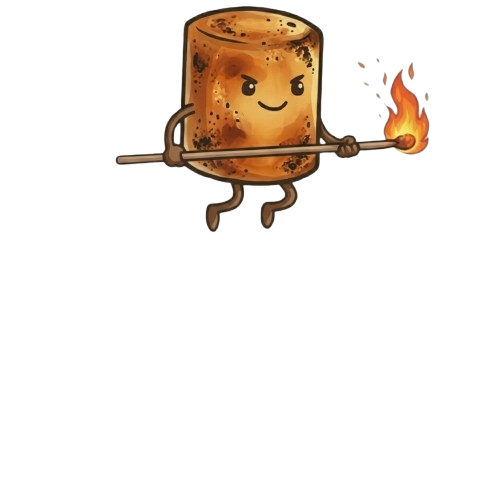
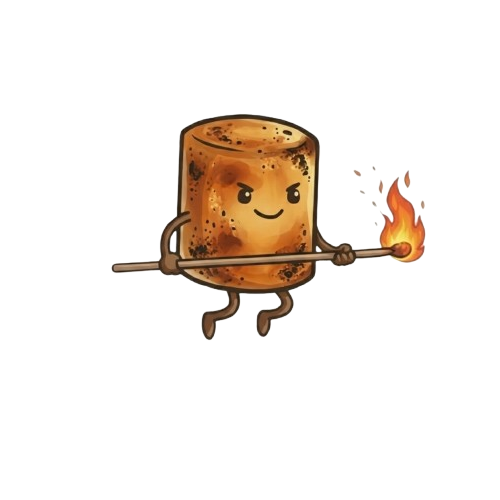
So, I did some things

Changed region(s): [[0.21, 0.0, 0.87, 0.69], [0.72, 0.12, 0.75, 0.15]]

diff --git a/TEST_FLIPIMAGE.m b/TEST_FLIPIMAGE.m
@@ -44,7 +44,9 @@ flush(arduinoObj2);
           Roasted_Run,alpha_Roasted_Run, Roasted_Runflip,alpha_Roasted_Runflip,p2_left,dhb_right,p2_dhb_left, ...
           Roasted_Jump, alpha_Roasted_Jump, Roasted_Jumpflip,alpha_Roasted_Jumpflip, Roasted_Crouch,alpha_Roasted_Crouch,...
           Roasted_Crouchflip,alpha_Roasted_Crouchflip, Roasted_Jab,alpha_Roasted_Jab, Roasted_Jabflip,alpha_Roasted_Jabflip,...
-          Roasted_Upwards_Jab,alpha_Roasted_Upwards_Jab, Roasted_Upwards_Jabflip,alpha_Roasted_Upwards_Jabflip] = figure_setup();
+          Roasted_Upwards_Jab,alpha_Roasted_Upwards_Jab, Roasted_Upwards_Jabflip,alpha_Roasted_Upwards_Jabflip, ...
+          Unroasted_Dash,alpha_upward_Unroasted_Dash, Unroasted_Dashflip,alpha_Unroasted_Dashflip, ...
+          Roasted_Dash,alpha_Roasted_Dash, Roasted_Dashflip,alpha_Roasted_Dashflip] = figure_setup();
 
 xl = bgWidth*100;    % absolute x scaling
 yl = bgHeight*100;   % absolute y scaling
@@ -79,6 +81,7 @@ DHB2 = image(Black_HB, 'XData',[bgWidth-0.48 bgWidth-0.03], 'YData',[0.97-0.06 0
 burntrun = image(Roasted_Run,'XData',[screenx-scale screenx+scale], 'YData',[screeny-scale+0.1 screeny+scale+0.1], 'AlphaData',alpha_Roasted_Run);
 run = image(m_run,'XData',[screenx-scale screenx+scale], 'YData',[screeny-scale+0.1 screeny+scale+0.1], 'AlphaData',alpha_run);
 
+burntrun2 = image(Roasted_Runflip,'XData',[screenx+0.5-scale screenx+0.5+scale], 'YData',[screeny-scale+0.1 screeny+scale+0.1], 'AlphaData',alpha_Roasted_Runflip);
 p2run = image(m_runflip,'XData',[screenx+0.5-scale screenx+0.5+scale], 'YData',[screeny-scale+0.1 screeny+scale+0.1], 'AlphaData',alpha_runflip);
 
 %% Initial Values
@@ -91,6 +94,9 @@ burnt = 1;
 burnt2 = 1;
 crouch = 1;
 p1jabbtn = 1;
+
+ux = 0;
+u2x = 0;
 
 %% ---------------- MAIN LOOP ----------------
 while ishandle(run)
@@ -147,30 +153,29 @@ while ishandle(run)
                         
                     uy = 800*(0.15+0.85*p1crouchbtn);
 
-                elseif p1dashbtn == 0
+                elseif p1dashbtn == 0 && p1crouchbtn == 1
 
-                    uy = 400*(raw-512)*(0.15+0.85*p1crouchbtn)/512;
+                    uy = -400*(raw-512)/512;
                     
                 else
                     uy = 0;  % Reset applied force if within deadband
                 end
 
                 % Deadband
-                if abs(rawx - 512) < 20
+                if abs(rawx - 512) < 20 && p2jabbtn == 1
                     ux = 0;
+                    x1start(2) = 0;
 
-                elseif p1dashbtn == 0
+                elseif p1dashbtn == 0 && p1crouchbtn == 1
 
-                    ux = -3000*(rawx-512)*(0.15+0.85*p1crouchbtn)/512;
+                    ux = -3000*(rawx-512)/512;
                     
                 else 
                     ux = -(rawx - 512)*(0.15+0.85*p1crouchbtn);
                     
                 end 
                                 
-                 if ux == 0 
-                    x1start(2) = 0;
-                end
+                 
             
             % player 2 controls
                 if (raw2 - 512) < -300
@@ -182,30 +187,29 @@ while ishandle(run)
                 if p2jumpbtn == 0
                     u2y = 800*(0.15+0.85*p2crouchbtn);
                 
-                elseif p2dashbtn == 0
-                    u2y = 400*(raw2-512)*(0.15+0.85*p2crouchbtn)/512;
+                elseif p2dashbtn == 0 && p2crouchbtn == 1
+                    u2y = -400*(raw2-512)/512;
                 
                 else
                     u2y = 0;
                 end
                 
-                if abs(rawx2 - 512) < 10
+                if abs(rawx2 - 512) < 20 && p1jabbtn == 1
                     u2x = 0;
+                    xp2(2) = 0;
                 
-                elseif p2dashbtn == 0
-                    u2x = -3000*(rawx2-512)*(0.15+0.85*p2crouchbtn)/512;
+                elseif p2dashbtn == 0 && p2crouchbtn == 1
+                    u2x = -3000*(rawx2-512)/512;
                 
                 else
                     
                     u2x = -(rawx2 - 512)*(0.15+0.85*p2crouchbtn);
                 end
                 
-                if u2x == 0
-                    xp2(2) = 0;
-                end
+                
 
-h1 = 1.0+(100.0-health1)*0.01;
-h2 = 1.0+(100.0-health2)*0.01;
+h1 = 1.0+(100.0-health1)*0.05;
+h2 = 1.0+(100.0-health2)*0.05;
 
 % ----- RK4 Integration -----
 y1start = RK4(y1start, dt, h1, uy,m, rho, Cd, A, g);
@@ -283,48 +287,58 @@ y2start = RK4(y2start, dt, h2, u2y, m, rho, Cd, A, g);
    
     if x1 <= x2
         
-        player1image = changeimage(ux, up, burnt, p1crouchbtn, p1jabbtn, p1jumpbtn, m_runflip,alpha_runflip,m_jumpflip,alpha_jumpflip, m_crouchflip,alpha_crouchflip,...
+        player1image = changeimage(ux, up, burnt, p1crouchbtn, p1jabbtn, p1jumpbtn, p1dashbtn, m_runflip,alpha_runflip,m_jumpflip,alpha_jumpflip, m_crouchflip,alpha_crouchflip,...
           m_jabflip,alpha_jabflip, m_upward_jabflip,alpha_upward_jabflip, m_run, alpha_run, m_jump, alpha_jump, ...
           m_crouch, alpha_crouch, m_jab, alpha_jab, ...
           m_upward_jab, alpha_upward_jab,Roasted_Run,alpha_Roasted_Run, Roasted_Runflip,alpha_Roasted_Runflip, ...
           Roasted_Jump, alpha_Roasted_Jump, Roasted_Jumpflip,alpha_Roasted_Jumpflip, Roasted_Crouch,alpha_Roasted_Crouch,...
           Roasted_Crouchflip,alpha_Roasted_Crouchflip, Roasted_Jab,alpha_Roasted_Jab, Roasted_Jabflip,alpha_Roasted_Jabflip,...
-          Roasted_Upwards_Jab,alpha_Roasted_Upwards_Jab, Roasted_Upwards_Jabflip,alpha_Roasted_Upwards_Jabflip);
+          Roasted_Upwards_Jab,alpha_Roasted_Upwards_Jab, Roasted_Upwards_Jabflip,alpha_Roasted_Upwards_Jabflip, ...
+          Unroasted_Dash,alpha_upward_Unroasted_Dash, Unroasted_Dashflip,alpha_Unroasted_Dashflip, ...
+          Roasted_Dash,alpha_Roasted_Dash, Roasted_Dashflip,alpha_Roasted_Dashflip);
 
         set(burntrun,'CData', player1image{3}, 'AlphaData', player1image{4});
         set(run,'CData', player1image{1}, 'AlphaData', player1image{2});
 
-        player2image = changeimageflip(u2x, up2, burnt2, p2crouchbtn, p2jabbtn, p2jumpbtn, m_runflip,alpha_runflip,m_jumpflip,alpha_jumpflip, m_crouchflip,alpha_crouchflip,...
+        player2image = changeimageflip(u2x, up2, burnt2, p2crouchbtn, p2jabbtn, p2jumpbtn, p2dashbtn, m_runflip,alpha_runflip,m_jumpflip,alpha_jumpflip, m_crouchflip,alpha_crouchflip,...
           m_jabflip,alpha_jabflip, m_upward_jabflip,alpha_upward_jabflip, m_run, alpha_run, m_jump, alpha_jump, ...
           m_crouch, alpha_crouch, m_jab, alpha_jab, ...
           m_upward_jab, alpha_upward_jab,Roasted_Run,alpha_Roasted_Run, Roasted_Runflip,alpha_Roasted_Runflip, ...
           Roasted_Jump, alpha_Roasted_Jump, Roasted_Jumpflip,alpha_Roasted_Jumpflip, Roasted_Crouch,alpha_Roasted_Crouch,...
           Roasted_Crouchflip,alpha_Roasted_Crouchflip, Roasted_Jab,alpha_Roasted_Jab, Roasted_Jabflip,alpha_Roasted_Jabflip,...
-          Roasted_Upwards_Jab,alpha_Roasted_Upwards_Jab, Roasted_Upwards_Jabflip,alpha_Roasted_Upwards_Jabflip);
+          Roasted_Upwards_Jab,alpha_Roasted_Upwards_Jab, Roasted_Upwards_Jabflip,alpha_Roasted_Upwards_Jabflip, ...
+          Unroasted_Dash,alpha_upward_Unroasted_Dash, Unroasted_Dashflip,alpha_Unroasted_Dashflip, ...
+          Roasted_Dash,alpha_Roasted_Dash, Roasted_Dashflip,alpha_Roasted_Dashflip);
 
         set(p2run,'CData', player2image{1}, 'AlphaData', player2image{2});
+        set(burntrun2,'CData', player2image{3}, 'AlphaData', player2image{4});
 
     else
-        player1image = changeimageflip(ux, up, burnt, p1crouchbtn, p1jabbtn, p1jumpbtn, m_runflip,alpha_runflip,m_jumpflip,alpha_jumpflip, m_crouchflip,alpha_crouchflip,...
+        player1image = changeimageflip(ux, up, burnt, p1crouchbtn, p1jabbtn, p1jumpbtn, p1dashbtn, m_runflip,alpha_runflip,m_jumpflip,alpha_jumpflip, m_crouchflip,alpha_crouchflip,...
           m_jabflip,alpha_jabflip, m_upward_jabflip,alpha_upward_jabflip, m_run, alpha_run, m_jump, alpha_jump, ...
           m_crouch, alpha_crouch, m_jab, alpha_jab, ...
           m_upward_jab, alpha_upward_jab,Roasted_Run,alpha_Roasted_Run, Roasted_Runflip,alpha_Roasted_Runflip, ...
           Roasted_Jump, alpha_Roasted_Jump, Roasted_Jumpflip,alpha_Roasted_Jumpflip, Roasted_Crouch,alpha_Roasted_Crouch,...
           Roasted_Crouchflip,alpha_Roasted_Crouchflip, Roasted_Jab,alpha_Roasted_Jab, Roasted_Jabflip,alpha_Roasted_Jabflip,...
-          Roasted_Upwards_Jab,alpha_Roasted_Upwards_Jab, Roasted_Upwards_Jabflip,alpha_Roasted_Upwards_Jabflip);
+          Roasted_Upwards_Jab,alpha_Roasted_Upwards_Jab, Roasted_Upwards_Jabflip,alpha_Roasted_Upwards_Jabflip, ...
+          Unroasted_Dash,alpha_upward_Unroasted_Dash, Unroasted_Dashflip,alpha_Unroasted_Dashflip, ...
+          Roasted_Dash,alpha_Roasted_Dash, Roasted_Dashflip,alpha_Roasted_Dashflip);
 
         set(burntrun,'CData', player1image{3}, 'AlphaData', player1image{4});
         set(run,'CData', player1image{1}, 'AlphaData', player1image{2});
 
-        player2image = changeimage(u2x, up2, burnt2, p2crouchbtn, p2jabbtn, p2jumpbtn, m_runflip,alpha_runflip,m_jumpflip,alpha_jumpflip, m_crouchflip,alpha_crouchflip,...
+        player2image = changeimage(u2x, up2, burnt2, p2crouchbtn, p2jabbtn, p2jumpbtn, p2dashbtn, m_runflip,alpha_runflip,m_jumpflip,alpha_jumpflip, m_crouchflip,alpha_crouchflip,...
           m_jabflip,alpha_jabflip, m_upward_jabflip,alpha_upward_jabflip, m_run, alpha_run, m_jump, alpha_jump, ...
           m_crouch, alpha_crouch, m_jab, alpha_jab, ...
           m_upward_jab, alpha_upward_jab,Roasted_Run,alpha_Roasted_Run,Roasted_Runflip,alpha_Roasted_Runflip, ...
           Roasted_Jump, alpha_Roasted_Jump, Roasted_Jumpflip,alpha_Roasted_Jumpflip, Roasted_Crouch,alpha_Roasted_Crouch,...
           Roasted_Crouchflip,alpha_Roasted_Crouchflip, Roasted_Jab,alpha_Roasted_Jab, Roasted_Jabflip,alpha_Roasted_Jabflip,...
-          Roasted_Upwards_Jab,alpha_Roasted_Upwards_Jab, Roasted_Upwards_Jabflip,alpha_Roasted_Upwards_Jabflip);
+          Roasted_Upwards_Jab,alpha_Roasted_Upwards_Jab, Roasted_Upwards_Jabflip,alpha_Roasted_Upwards_Jabflip, ...
+          Unroasted_Dash,alpha_upward_Unroasted_Dash, Unroasted_Dashflip,alpha_Unroasted_Dashflip, ...
+          Roasted_Dash,alpha_Roasted_Dash, Roasted_Dashflip,alpha_Roasted_Dashflip);
 
         set(p2run,'CData', player2image{1}, 'AlphaData', player2image{2});
+        set(burntrun2,'CData', player2image{3}, 'AlphaData', player2image{4});
 
     end
 
@@ -337,11 +351,11 @@ y2start = RK4(y2start, dt, h2, u2y, m, rho, Cd, A, g);
         hit = jabfunction(x1, y1, x2, y2, up, hitbox);
     
         if hit > 0
-            u2x = (abs(ux)/2)*(ux/(abs(ux)+0.001));
+            u2x = (abs(ux))*(ux/(abs(ux)+0.001));
     
             heart = (0.025 + (sqrt(ux^2 + uy^2))*0.000001);
             health2 = health2 - heart;
-            burnt2 = 0.25 + health2/133.33;
+            burnt2 = 0.1 + health2/111.11;
     
         end
     end
@@ -353,11 +367,11 @@ y2start = RK4(y2start, dt, h2, u2y, m, rho, Cd, A, g);
         hit2 = jabfunction(x2, y2, x1, y1, up2, hitbox);
     
         if hit2 > 0
-            ux = (abs(u2x)/2)*(u2x/(abs(u2x)+0.001));
+            ux = (abs(u2x))*(u2x/(abs(u2x)+0.001));
     
             heart2 = (0.025 + (sqrt(u2x^2 + u2y^2))*0.000001);
             health1 = health1 - heart2;
-            burnt = 0.25 + health1/133.33;
+            burnt = 0.1 + health1/111.11;
     
         end
     end
@@ -371,20 +385,23 @@ y2start = RK4(y2start, dt, h2, u2y, m, rho, Cd, A, g);
     
     %% player 1 damage bar
 
-    set(burntrun,'XData',[x1-scale x1+scale],'YData',[y1-scale+0.1 y1+scale+0.1],'AlphaData',player1image{4});
+    set(burntrun,'XData',[x1-scale x1+scale],'YData',[y1-scale+0.1 y1+scale+0.1]);
     set(run,'XData',[x1-scale x1+scale],'YData',[y1-scale+0.1 y1+scale+0.1]);
 
    
     
     
     set(DHB1, 'XData',[dhb_right - dhb_width1, dhb_right], 'YData',[dhb_top - dhb_height, dhb_top], 'AlphaData', alphadhb);
+
+    
+    set(burntrun2,'XData',[x2-scale x2+scale],'YData',[y2-scale+0.1 y2+scale+0.1]);
     set(p2run,'XData',[x2-scale x2+scale],'YData',[y2-scale+0.1 y2+scale+0.1]); 
     
     % player 1 damage bar
     
 
 
-set(DHB2, 'XData',[p2_dhb_left, p2_dhb_left + dhb_width2], 'YData',[dhb_top - dhb_height, dhb_top]);
+    set(DHB2, 'XData',[p2_dhb_left, p2_dhb_left + dhb_width2], 'YData',[dhb_top - dhb_height, dhb_top]);
 
     drawnow limitrate
 
@@ -506,7 +523,9 @@ function [bgWidth,bgHeight,bg, m_run, alpha_run, m_jump, alpha_jump, ...
           Roasted_Run,alpha_Roasted_Run, Roasted_Runflip,alpha_Roasted_Runflip,p2_left,dhb_right,p2_dhb_left,...
           Roasted_Jump, alpha_Roasted_Jump, Roasted_Jumpflip,alpha_Roasted_Jumpflip, Roasted_Crouch,alpha_Roasted_Crouch,...
           Roasted_Crouchflip,alpha_Roasted_Crouchflip, Roasted_Jab,alpha_Roasted_Jab, Roasted_Jabflip,alpha_Roasted_Jabflip,...
-          Roasted_Upwards_Jab,alpha_Roasted_Upwards_Jab, Roasted_Upwards_Jabflip,alpha_Roasted_Upwards_Jabflip] = figure_setup()
+          Roasted_Upwards_Jab,alpha_Roasted_Upwards_Jab, Roasted_Upwards_Jabflip,alpha_Roasted_Upwards_Jabflip, ...
+          Unroasted_Dash,alpha_upward_Unroasted_Dash, Unroasted_Dashflip,alpha_Unroasted_Dashflip, ...
+          Roasted_Dash,alpha_Roasted_Dash, Roasted_Dashflip,alpha_Roasted_Dashflip] = figure_setup()
 
  
 
@@ -620,6 +639,24 @@ alpha_Roasted_Upwards_Jab = flipud(alpha_Roasted_Upwards_Jab);
 Roasted_Upwards_Jabflip = rot90(Roasted_Upwards_Jabflip,2);
 alpha_Roasted_Upwards_Jabflip = rot90(alpha_Roasted_Upwards_Jabflip,2);
 
+[Unroasted_Dash,~,alpha_upward_Unroasted_Dash] = imread('Unroasted_Dash.png');
+Unroasted_Dash = flipud(Unroasted_Dash);
+alpha_upward_Unroasted_Dash = flipud(alpha_upward_Unroasted_Dash);
+
+[Unroasted_Dashflip,~,alpha_Unroasted_Dashflip] = imread('Unroasted_Dash.png');
+Unroasted_Dashflip = rot90(Unroasted_Dashflip,2);
+alpha_Unroasted_Dashflip = rot90(alpha_Unroasted_Dashflip,2);
+
+[Roasted_Dash,~,alpha_Roasted_Dash] = imread('Roasted_Dash.png');
+Roasted_Dash = flipud(Roasted_Dash);
+alpha_Roasted_Dash = flipud(alpha_Roasted_Dash);
+
+[Roasted_Dashflip,~,alpha_Roasted_Dashflip] = imread('Roasted_Dash.png');
+Roasted_Dashflip = rot90(Roasted_Dashflip,2);
+alpha_Roasted_Dashflip = rot90(alpha_Roasted_Dashflip,2);
+
+
+
 % Object scale (normalized)
 scale = 200/imgW;
     
@@ -675,13 +712,15 @@ function jab = jabfunction(x1, y1, x2, y2, up, hitbox)
 end
 
 
-function image = changeimage(ux, up, burnt, p1crouchbtn, p1jabbtn, p1jumpbtn, m_runflip,alpha_runflip,m_jumpflip,alpha_jumpflip, m_crouchflip,alpha_crouchflip,...
+function image = changeimage(ux, up, burnt, p1crouchbtn, p1jabbtn, p1jumpbtn, p1dashbtn, m_runflip,alpha_runflip,m_jumpflip,alpha_jumpflip, m_crouchflip,alpha_crouchflip,...
           m_jabflip,alpha_jabflip, m_upward_jabflip,alpha_upward_jabflip, m_run, alpha_run, m_jump, alpha_jump, ...
           m_crouch, alpha_crouch, m_jab, alpha_jab, ...
           m_upward_jab, alpha_upward_jab,Roasted_Run,alpha_Roasted_Run, Roasted_Runflip,alpha_Roasted_Runflip, ...
           Roasted_Jump, alpha_Roasted_Jump, Roasted_Jumpflip,alpha_Roasted_Jumpflip, Roasted_Crouch,alpha_Roasted_Crouch,...
           Roasted_Crouchflip,alpha_Roasted_Crouchflip, Roasted_Jab,alpha_Roasted_Jab, Roasted_Jabflip,alpha_Roasted_Jabflip,...
-          Roasted_Upwards_Jab,alpha_Roasted_Upwards_Jab, Roasted_Upwards_Jabflip,alpha_Roasted_Upwards_Jabflip)
+          Roasted_Upwards_Jab,alpha_Roasted_Upwards_Jab, Roasted_Upwards_Jabflip,alpha_Roasted_Upwards_Jabflip, ...
+          Unroasted_Dash,alpha_upward_Unroasted_Dash, Unroasted_Dashflip,alpha_upward_Unroasted_Dashflip, ...
+          Roasted_Dash,alpha_Roasted_Dash, Roasted_Dashflip,alpha_Roasted_Dashflip)
 
     
  if ux >= 0 
@@ -707,11 +746,17 @@ function image = changeimage(ux, up, burnt, p1crouchbtn, p1jabbtn, p1jumpbtn, m_
             image{4} = alpha_Roasted_Jab;
         end
     
-    elseif p1jumpbtn == 0
+    elseif p1jumpbtn == 0 && p1crouchbtn == 1
         image{1} = m_jump;
         image{2}= alpha_jump*burnt;
         image{3} = Roasted_Jump;
         image{4} = alpha_Roasted_Jump;
+
+    elseif p1dashbtn == 0 && p1crouchbtn == 1
+        image{1} = Unroasted_Dash;
+        image{2}= alpha_upward_Unroasted_Dash*burnt;
+        image{3} = Roasted_Dash;
+        image{4} = alpha_Roasted_Dash;
 
     else
         image{1} = m_run;
@@ -743,12 +788,18 @@ function image = changeimage(ux, up, burnt, p1crouchbtn, p1jabbtn, p1jumpbtn, m_
             image{4} = alpha_Roasted_Jabflip;
         end
     
-    elseif p1jumpbtn == 0
+    elseif p1jumpbtn == 0 && p1crouchbtn == 1
         image{1} = m_jumpflip;
         image{2}= alpha_jumpflip*burnt;
         image{3} = Roasted_Jumpflip;
         image{4} = alpha_Roasted_Jumpflip;
-        
+
+    elseif p1dashbtn == 0 && p1crouchbtn == 1
+        image{1} = Unroasted_Dashflip;
+        image{2}= alpha_upward_Unroasted_Dashflip*burnt;
+        image{3} = Roasted_Dashflip;
+        image{4} = alpha_Roasted_Dashflip;
+
     else
         image{1} = m_runflip;
         image{2} = alpha_runflip*burnt;
@@ -761,13 +812,15 @@ function image = changeimage(ux, up, burnt, p1crouchbtn, p1jabbtn, p1jumpbtn, m_
  
 end
 
-function image = changeimageflip(ux, up, burnt, p1crouchbtn, p1jabbtn, p1jumpbtn, m_runflip,alpha_runflip,m_jumpflip,alpha_jumpflip, m_crouchflip,alpha_crouchflip,...
+function image = changeimageflip(ux, up, burnt, p1crouchbtn, p1jabbtn, p1jumpbtn, p1dashbtn, m_runflip,alpha_runflip,m_jumpflip,alpha_jumpflip, m_crouchflip,alpha_crouchflip,...
           m_jabflip,alpha_jabflip, m_upward_jabflip,alpha_upward_jabflip, m_run, alpha_run, m_jump, alpha_jump, ...
           m_crouch, alpha_crouch, m_jab, alpha_jab, ...
           m_upward_jab, alpha_upward_jab,Roasted_Run,alpha_Roasted_Run, Roasted_Runflip,alpha_Roasted_Runflip, ...
           Roasted_Jump, alpha_Roasted_Jump, Roasted_Jumpflip,alpha_Roasted_Jumpflip, Roasted_Crouch,alpha_Roasted_Crouch,...
           Roasted_Crouchflip,alpha_Roasted_Crouchflip, Roasted_Jab,alpha_Roasted_Jab, Roasted_Jabflip,alpha_Roasted_Jabflip,...
-          Roasted_Upwards_Jab,alpha_Roasted_Upwards_Jab, Roasted_Upwards_Jabflip,alpha_Roasted_Upwards_Jabflip)
+          Roasted_Upwards_Jab,alpha_Roasted_Upwards_Jab, Roasted_Upwards_Jabflip,alpha_Roasted_Upwards_Jabflip, ...
+          Unroasted_Dash,alpha_upward_Unroasted_Dash, Unroasted_Dashflip,alpha_upward_Unroasted_Dashflip, ...
+          Roasted_Dash,alpha_Roasted_Dash, Roasted_Dashflip,alpha_Roasted_Dashflip)
 
     
 
@@ -793,12 +846,17 @@ function image = changeimageflip(ux, up, burnt, p1crouchbtn, p1jabbtn, p1jumpbtn
             image{4} = alpha_Roasted_Jabflip;
         end
     
-    elseif p1jumpbtn == 0
+    elseif p1jumpbtn == 0 && p1crouchbtn == 1
         image{1} = m_jumpflip;
         image{2}= alpha_jumpflip*burnt;
         image{3} = Roasted_Jumpflip;
         image{4} = alpha_Roasted_Jumpflip;
-        
+
+     elseif p1dashbtn == 0 && p1crouchbtn == 1
+        image{1} = Unroasted_Dashflip;
+        image{2}= alpha_upward_Unroasted_Dashflip*burnt;
+        image{3} = Roasted_Dashflip;
+        image{4} = alpha_Roasted_Dashflip;
     else
         image{1} = m_runflip;
         image{2} = alpha_runflip*burnt;
@@ -836,6 +894,12 @@ function image = changeimageflip(ux, up, burnt, p1crouchbtn, p1jabbtn, p1jumpbtn
         image{2}= alpha_jump*burnt;
         image{3} = Roasted_Jump;
         image{4} = alpha_Roasted_Jump;
+
+    elseif p1dashbtn == 0 && p1crouchbtn == 1
+        image{1} = Unroasted_Dash;
+        image{2}= alpha_upward_Unroasted_Dash*burnt;
+        image{3} = Roasted_Dash;
+        image{4} = alpha_Roasted_Dash;
 
     else
         image{1} = m_run;
